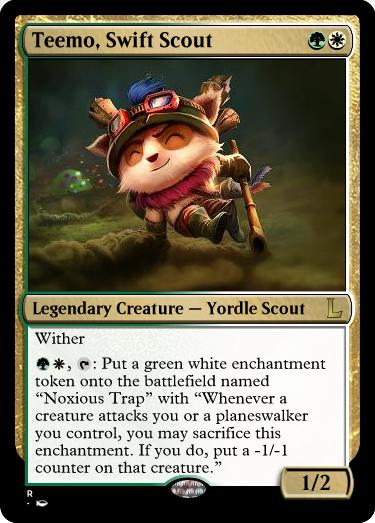
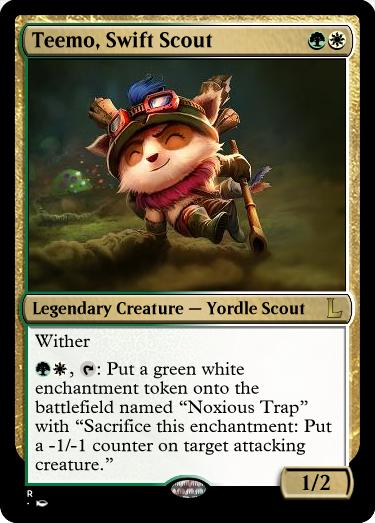
Added a bunch of flavor text + cleanups

Changed region(s): [[0.088, 0.6119, 0.88, 0.9178]]

diff --git a/README.md b/README.md
@@ -13,10 +13,11 @@ These champions still need card designs. Feel free to suggest options.
 * Jax (R)
 * Kassadin (WB)
 * Lee Sin (GW)
+* Lux (W)
 * Miss Fortune (R)
-* Morgana (BR)
 * Nunu (UR)
 * Skarner (?)
 * Taric (Waiting for rework)
 * Tristana (R)
 * Trundle (RG)
+* Warwick (BR)
